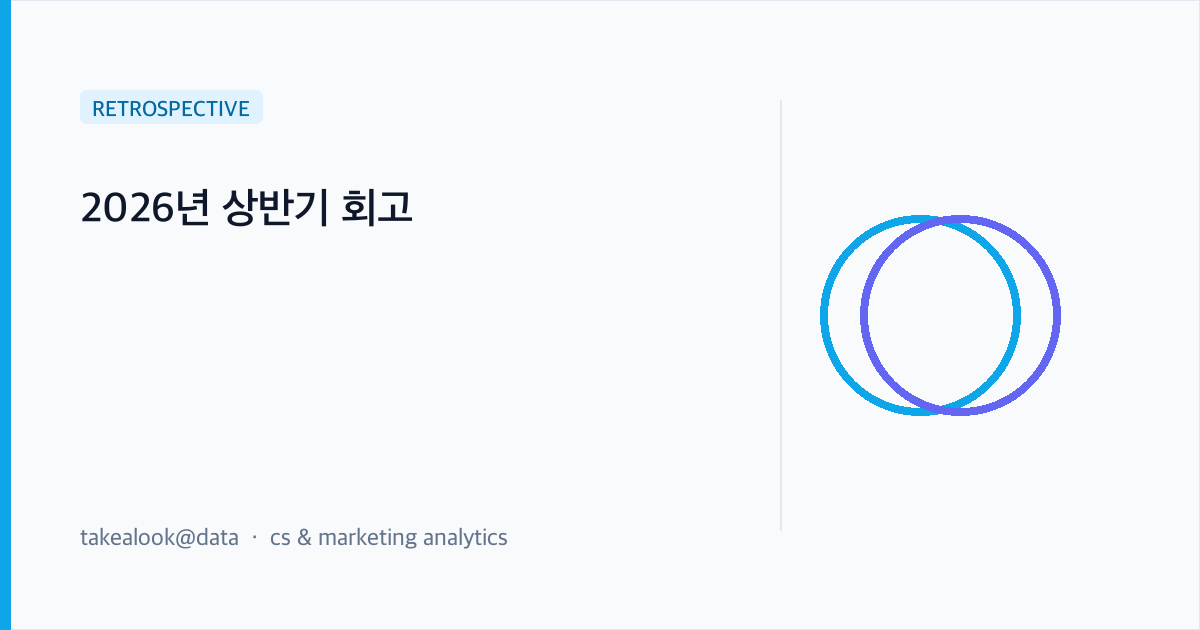
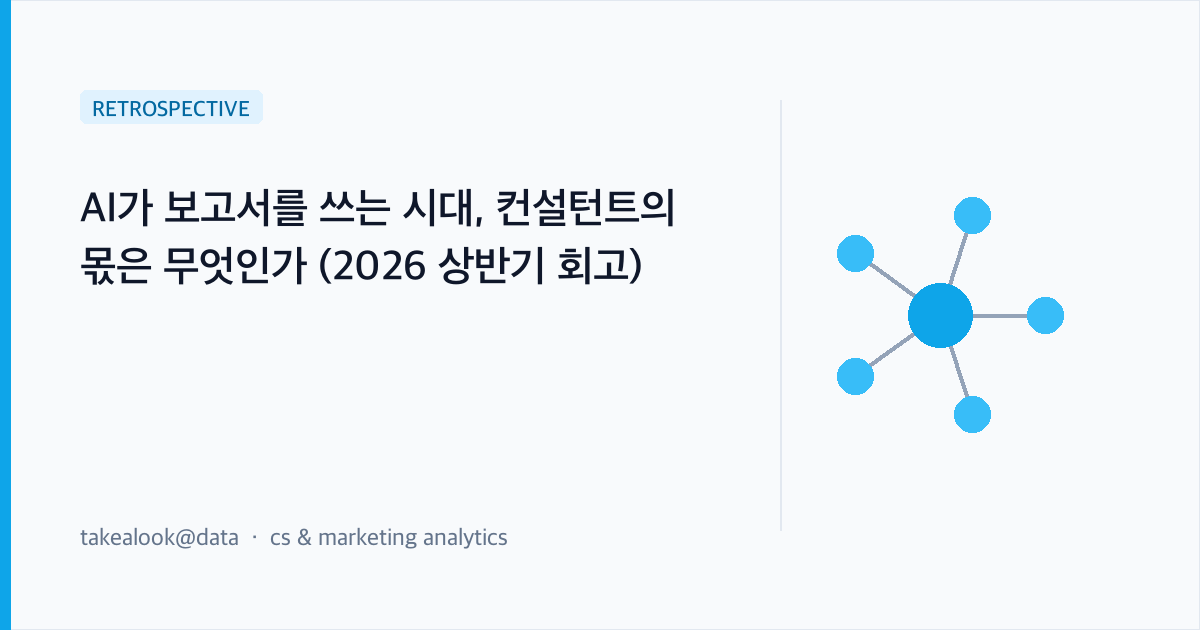
style: standardize post title naming convention and update 2D thumbnails

Changed region(s): [[0.6783, 0.3016, 0.8942, 0.6937], [0.0617, 0.3016, 0.5858, 0.3619], [0.0617, 0.3921, 0.555, 0.4524]]

diff --git a/_posts/2026-05-20-thinking-fast-and-slow.md b/_posts/2026-05-20-thinking-fast-and-slow.md
@@ -1,5 +1,5 @@
 ---
-title: "데이터 분석에서 가장 자주 속는 상대는 내 직관이다 — 『생각에 관한 생각』"
+title: "데이터 분석에서 가장 자주 속는 상대는 내 직관이다 (『생각에 관한 생각』 서평)"
 redirect_from:
   - /reading/thinking-fast-and-slow/
   - /reading/2026-05-20-thinking-fast-and-slow/

diff --git a/_posts/2026-06-07-google-ai-agent-trends-2026.md b/_posts/2026-06-07-google-ai-agent-trends-2026.md
@@ -1,5 +1,5 @@
 ---
-title: "AI 에이전트 도입의 병목은 기술이 아니라 사람이다 — Google Cloud 2026 보고서 정리"
+title: "AI 에이전트 도입의 병목은 기술이 아니라 사람이다 (Google Cloud 2026 보고서 정리)"
 date: 2026-06-07
 redirect_from:
   - /posts/2026/06/google-ai-agent-trends-2026/

diff --git a/_posts/2026-06-01-half-year-retrospective.md b/_posts/2026-06-01-half-year-retrospective.md
@@ -1,5 +1,5 @@
 ---
-title: "AI가 보고서를 쓰는 시대, 컨설턴트의 몫은 무엇인가 — 2026 상반기 회고"
+title: "AI가 보고서를 쓰는 시대, 컨설턴트의 몫은 무엇인가 (2026 상반기 회고)"
 redirect_from:
   - /essays/half-year-retrospective/
   - /essays/2026-06-01-half-year-retrospective/

diff --git a/_posts/2026-05-01-mmp-pa-crm-integration.md b/_posts/2026-05-01-mmp-pa-crm-integration.md
@@ -1,5 +1,5 @@
 ---
-title: "MMP-PA-CRM 통합 풀퍼널 연동 모듈 개발"
+title: "유저 식별자 불일치를 해결하는 MMP·PA·CRM 풀퍼널 연동 (Identity Resolution 설계)"
 redirect_from:
   - /portfolio/mmp-pa-crm-integration/
   - /portfolio/2026-05-01-mmp-pa-crm-integration/
